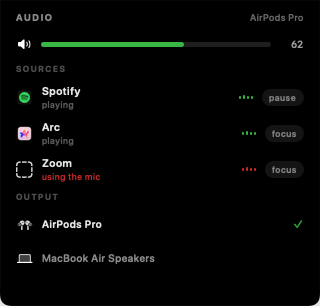
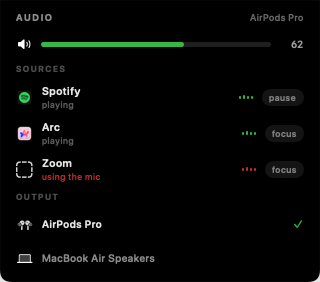
Size the open panel from what it measures, not a row count
Row-count arithmetic drifts as soon as content changes, clipping the bottom of
the panel. The panel now lays out naturally and reports its height, and the
shell, window and click region follow that.

diff --git a/Sources/AudioNotch/UI/AudioRootView.swift b/Sources/AudioNotch/UI/AudioRootView.swift
@@ -5,6 +5,7 @@ struct AudioRootView: View {
     @ObservedObject var store: AudioStore
     @ObservedObject var state: NotchState
     var onHitTargets: ([HitTarget]) -> Void
+    var onPanelHeight: (CGFloat) -> Void
 
     private var placement: Placement { state.placement }
     private var alignment: Alignment { placement.alignment }
@@ -15,7 +16,8 @@ struct AudioRootView: View {
                rows: snapshot.sources.count + snapshot.devices.count,
                active: snapshot.anyPlaying,
                leadName: snapshot.playing.first?.name ?? snapshot.sources.first?.name ?? "",
-               leadSubtitle: subtitle)
+               leadSubtitle: subtitle,
+               measuredBody: state.panelBodyHeight)
     }
 
     private var subtitle: String {
@@ -39,7 +41,8 @@ struct AudioRootView: View {
         ZStack(alignment: alignment) {
             layer(MiniNub(layout: layout, active: snapshot.anyPlaying), visible: state.mode == .mini)
             layer(PillContent(snapshot: snapshot, layout: layout), visible: state.mode == .pill)
-            layer(Panel(store: store, layout: layout, onHitTargets: onHitTargets),
+            layer(Panel(store: store, layout: layout, onHitTargets: onHitTargets,
+                        onHeight: reportHeight),
                   visible: state.mode == .expanded)
         }
         .frame(width: currentSize.width, height: currentSize.height, alignment: alignment)
@@ -54,6 +57,14 @@ struct AudioRootView: View {
         .animation(Anim.morph, value: currentSize)
         .animation(Anim.morph, value: radius)
         .animation(Anim.morph, value: placement)
+    }
+
+    /// The panel measures itself; the shell, the window and the hit region follow it.
+    private func reportHeight(_ height: CGFloat) {
+        let rounded = ceil(height)
+        guard abs((state.panelBodyHeight ?? 0) - rounded) > 0.5 else { return }
+        state.panelBodyHeight = rounded
+        onPanelHeight(rounded)
     }
 
     private func layer<V: View>(_ view: V, visible: Bool) -> some View {
@@ -236,6 +247,7 @@ private struct Panel: View {
     @ObservedObject var store: AudioStore
     var layout: Layout
     var onHitTargets: ([HitTarget]) -> Void
+    var onHeight: (CGFloat) -> Void
 
     @State private var targets: [String: CGRect] = [:]
 
@@ -247,9 +259,13 @@ private struct Panel: View {
             if layout.placement.edge.isIsland {
                 band.frame(height: layout.placement.notch.height)
             }
+            // No fixed height: the content lays out naturally and reports what it
+            // needed, which is what everything else is then sized from.
             content
+                .fixedSize(horizontal: false, vertical: true)
+                .background(RectReader { onHeight($0.height) })
         }
-        .frame(width: size.width, height: size.height, alignment: .top)
+        .frame(width: size.width, alignment: .top)
         .onChange(of: targets) { _, new in
             onHitTargets(new.map { HitTarget(id: $0.key, rect: $0.value) })
         }
@@ -311,7 +327,6 @@ private struct Panel: View {
                 }
             }
 
-            Spacer(minLength: 0)
         }
         .padding(.horizontal, Style.panelInset)
         .padding(.top, layout.placement.edge.isIsland ? 8 : 12)

diff --git a/Sources/AudioNotch/UI/RenderHarness.swift b/Sources/AudioNotch/UI/RenderHarness.swift
@@ -24,13 +24,15 @@ enum RenderHarness {
         for (mode, name) in [(NotchMode.mini, "mini"), (.pill, "pill"), (.expanded, "expanded")] {
             state.mode = mode
             state.placement = Placement(edge: edge, anchor: .rightOfNotch, notch: notch)
-            let root = AudioRootView(store: store, state: state, onHitTargets: { _ in })
+            let root = AudioRootView(store: store, state: state,
+                                     onHitTargets: { _ in }, onPanelHeight: { _ in })
             let snap = store.snapshot
             let layout = Layout(placement: state.placement,
                                 rows: snap.sources.count + snap.devices.count,
                                 active: snap.anyPlaying,
                                 leadName: snap.playing.first?.name ?? "",
-                                leadSubtitle: snap.currentDevice?.name ?? "")
+                                leadSubtitle: snap.currentDevice?.name ?? "",
+                                measuredBody: state.panelBodyHeight)
             let size = layout.size(for: mode)
             snapshot(root, size: size, to: outputDirectory + "/\(name).png")
             print("rendered \(name).png  \(Int(size.width))x\(Int(size.height))")
@@ -60,6 +62,14 @@ enum RenderHarness {
         hosting.layoutSubtreeIfNeeded()
         spin(until: Date().addingTimeInterval(0.4)) { false }
 
+        // The panel sizes itself now, so trust its fitting size over the estimate.
+        let fitting = hosting.fittingSize
+        if fitting.height > hosting.frame.height + 0.5 {
+            hosting.frame = CGRect(origin: .zero, size: CGSize(width: hosting.frame.width, height: ceil(fitting.height)))
+            window.setContentSize(hosting.frame.size)
+            hosting.layoutSubtreeIfNeeded()
+            spin(until: Date().addingTimeInterval(0.25)) { false }
+        }
         guard let rep = hosting.bitmapImageRepForCachingDisplay(in: hosting.bounds) else { return }
         hosting.cacheDisplay(in: hosting.bounds, to: rep)
         if let data = rep.representation(using: .png, properties: [:]) {

diff --git a/Sources/AudioNotch/UI/NotchController.swift b/Sources/AudioNotch/UI/NotchController.swift
@@ -195,9 +195,10 @@ final class NotchController: NSObject, NSMenuDelegate {
         AudioRootView(
             store: store,
             state: state,
-            onHitTargets: { [weak self] targets in
-                self?.hosting?.hitTargets = targets
-                self?.debugLog("targets=\(targets.map { "\($0.id)@\(Int($0.rect.minY))-\(Int($0.rect.maxY))" }.sorted())")
+            onHitTargets: { [weak self] targets in self?.hosting?.hitTargets = targets },
+            onPanelHeight: { [weak self] height in
+                self?.debugLog("panel measured \(height)")
+                self?.positionPanel()
             }
         )
     }
@@ -208,7 +209,8 @@ final class NotchController: NSObject, NSMenuDelegate {
                       rows: snap.sources.count + snap.devices.count,
                       active: snap.anyPlaying,
                       leadName: snap.playing.first?.name ?? snap.sources.first?.name ?? "",
-                      leadSubtitle: snap.currentDevice?.name ?? "")
+                      leadSubtitle: snap.currentDevice?.name ?? "",
+                      measuredBody: state.panelBodyHeight)
     }
 
     private func currentPlacement() -> Placement {

diff --git a/Sources/AudioNotch/UI/Layout.swift b/Sources/AudioNotch/UI/Layout.swift
@@ -25,6 +25,9 @@ struct Layout: Equatable {
     /// of guessing a fixed width and leaving the content jammed against the corners.
     var leadName: String = ""
     var leadSubtitle: String = ""
+    /// Height the panel's content actually laid out to. Row-count arithmetic is only
+    /// ever an estimate, so the real measurement wins once SwiftUI reports it.
+    var measuredBody: CGFloat?
 
     /// Width of a string in the rounded system font, matching what SwiftUI renders.
     private static func width(_ text: String, _ size: CGFloat, _ weight: NSFont.Weight) -> CGFloat {
@@ -59,7 +62,9 @@ struct Layout: Equatable {
     }
 
     /// Body of the open panel, excluding any notch band above it.
-    private var panelBody: CGFloat { 92 + CGFloat(max(rows, 1)) * 34 + 44 }
+    private var panelBody: CGFloat {
+        measuredBody ?? (92 + CGFloat(max(rows, 1)) * 34 + 44)
+    }
 
     func size(for mode: NotchMode) -> CGSize {
         switch placement.edge {

diff --git a/Sources/AudioNotch/UI/NotchState.swift b/Sources/AudioNotch/UI/NotchState.swift
@@ -23,6 +23,8 @@ final class NotchState: ObservableObject {
     @Published var mode: NotchMode = .pill
     @Published var placement: Placement = .current
     @Published var isHovering = false
+    /// Height the open panel's content measured, once SwiftUI has laid it out.
+    @Published var panelBodyHeight: CGFloat?
     /// Accumulates 360° per refresh so the icon keeps spinning in one direction.
     @Published var spin: Double = 0
 
